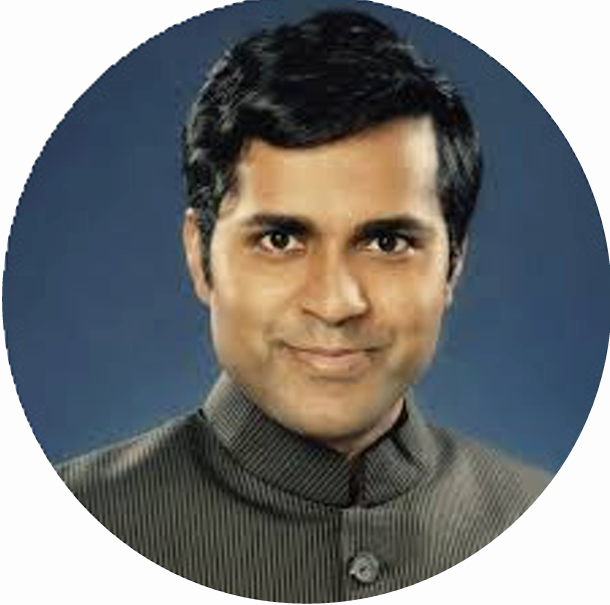
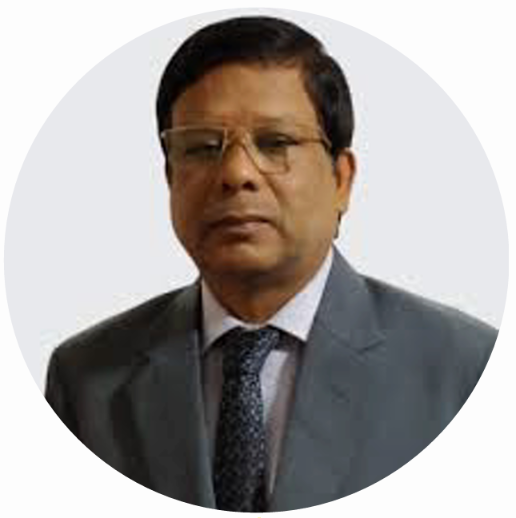
changes

diff --git a/src/components/pages/AdvisoryCommittee.jsx b/src/components/pages/AdvisoryCommittee.jsx
@@ -9,59 +9,64 @@ import FooterSection from "../FooterSection";
 
 export const AdvisoryCommittee = () => {
   const professors = [
+  { name: "Prof. Akshay Kumar Rathore", institute: "Singapore Institute of Technology, Singapore" },
   { name: "Prof. Patrick Wheeler", institute: "University of Nottingham, UK" },
-  { name: "Prof. S. Padmanaban", institute: "University of South-Eastern, Norway" },
-  // { name: "Prof. Frede Blaabjerg", institute: "Aalborg University, Denmark" },
+  { name: "Prof. Steven Li", institute: "Western New England University, USA" },
+  { name: "Prof. Sanjeevikumar Padmanaban", institute: "University of South-Eastern Norway" },
   { name: "Prof. Ramesh Bansal", institute: "University of Sharjah, UAE" },
   { name: "Prof. Mohamed Benbouzid", institute: "University of Brest, France" },
   { name: "Prof. Akhtar Kalam", institute: "Victoria University, Australia" },
   { name: "Prof. Mohan Kolhe", institute: "University of Agder, Norway" },
-  { name: "Prof. Rajesh Kumar", institute: "University of Johannesburg, South Africa" },
-  { name: "Prof. Akshay Kumar Rathod", institute: "Singapore Institute of Technology, Singapore" },
-  { name: "Prof. Sri Niwas Singh", institute: "Director, ABV-IIITM Gwalior" },
-  { name: "Prof. N. P. Padhy", institute: "Director, MNIT Jaipur" },
-  { name: "Prof. Pragati Kumar", institute: "Vice-Chancellor, SMVDU, Jammu" },
+  { name: "Dr. Baseem Khan", institute: "Hawassa University, Ethiopia" },
+  { name: "Dr. Mahdi Khosravy", institute: "Cross Labs, Tokyo, Japan" },
+  { name: "Dr. Neeraj Gupta", institute: "Kevadiya Inc., USA" },
   { name: "Prof. Bhim Singh", institute: "IIT Delhi" },
-  { name: "Prof. A. R. Abhyankar", institute: "IIT Delhi" },
-  { name: "Prof. H. O. Gupta", institute: "MNIT Jaipur" },
-  { name: "Prof. M. H. Kolekar", institute: "IIT Patna" },
+  { name: "Prof. Radhakant Padhi", institute: "IISc Bangalore" },
+  { name: "Prof. Sukumar Mishra", institute: "IIT Delhi" },
+  { name: "Prof. N. P. Padhy", institute: "Director, MNIT Jaipur" },
+  { name: "Prof. H. O. Gupta", institute: "IIT Roorkee" },
   { name: "Prof. Deepak M. Fulwani", institute: "IIT Jodhpur" },
-  { name: "Prof. B. S. Rajpurohit", institute: "IIT Jodhpur" },
+  { name: "Prof. Prerna Gaur", institute: "NSUT Delhi" },
+  { name: "Prof. Bharat Singh Rajpurohit", institute: "IIT Jodhpur" },
+  { name: "Prof. Rohit Bhakar", institute: "MNIT Jaipur" },
+  { name: "Prof. K. S. Nagla", institute: "NIT Jalandhar" },
+  { name: "Prof. Akhil Rajan Garg", institute: "MBM University Jodhpur" },
+  { name: "Prof. Pragati Kumar", institute: "Vice-Chancellor, SMVDU Jammu" },
+  { name: "Prof. Shailendra Jain", institute: "MANIT Bhopal" },
+  { name: "Prof. Ashwani Kumar", institute: "NIT Kurukshetra" },
+  { name: "Prof. Parimal Acharjee", institute: "NIT Durgapur" },
   { name: "Prof. (Mrs.) Shubhi Purwar", institute: "MNNIT Allahabad" },
   { name: "Prof. Asheesh K. Singh", institute: "MNNIT Allahabad" },
-  { name: "Prof. Anup Kumar Panda", institute: "NIT Rourkela" },
-  { name: "Prof. K. S. Nagla", institute: "NIT Jalandhar" },
   { name: "Prof. Manisha Dubey", institute: "MANIT Bhopal" },
-  { name: "Prof. Shailendra Jain", institute: "MANIT Bhopal" },
-  { name: "Prof. K. R. Niazi", institute: "MNIT Jaipur" },
-  { name: "Prof. Rohit Bhakar", institute: "MNIT Jaipur" },
-  { name: "Prof. Parimal Acharjee", institute: "NIT Durgapur" },
-  { name: "Prof. Ashwani Kumar", institute: "NIT Kurukshetra" },
-  { name: "Prof. Prerna Gaur", institute: "NSUT Delhi" },
-  { name: "Prof. Akhil Ranjan Garg", institute: "MBM University Jodhpur" },
+  { name: "Prof. M. H. Kolekar", institute: "IIT Patna" },
   { name: "Prof. Ujjwal Kumar Kalla", institute: "NIT Delhi" },
-
-  ];
-  const professors1=[
-    { name: "Prof. H. M. Suryawanshi", institute: "Director, NITH" },
-  { name: "Prof. Mohan Kolhe", institute: "University of Agder, Norway" },
-  { name: "Prof. Rajesh Kumar", institute: "University of Johannesburg, South Africa" },
-  { name: "Dr. Neeraj Gupta", institute: "Sr. Scientist, Global Elect. Ltd., USA" },
-  { name: "Prof. B. S. Rajpurohit", institute: "IIT Jodhpur" },
-  { name: "Prof. V. Mukherjee", institute: "IIT Dhanbad" },
-  { name: "Prof. Ravi Kumar", institute: "NIT Patna" },
+  { name: "Prof. K. R. Niazi", institute: "MNIT Jaipur" },
+  { name: "Prof. Vijander Singh", institute: "NSUT Delhi" }
+];
+const professors1 = [
+  { name: "Prof. Radhakant Padhi", institute: "IISc Bangalore" },
+  { name: "Prof. Bhim Singh", institute: "IIT Delhi" },
+  { name: "Prof. H. M. Suryawanshi", institute: "Director, NIT Hamirpur" },
+  { name: "Dr. Ravi Kumar", institute: "NIT Patna" },
+  { name: "Prof. Prerna Gaur", institute: "NSUT Delhi" },
   { name: "Prof. H. O. Gupta", institute: "MNIT Jaipur" },
-  { name: "Prof. Rohit Bhakar", institute: "MNIT Jaipur" },
-  { name: "Prof. K. R. Niazi", institute: "MNIT Jaipur" },
-  { name: "Prof. Prerna Gaur", institute: "NSUT Delhi" },
-  { name: "Prof. Ujjwal Kumar Kalla", institute: "NIT Delhi" },
-  { name: "Dr. Pushpak Jagtap", institute: "IISc Bangalore" },
-  { name: "Dr. Ranjana Sodhi", institute: "IIT Ropar" },
+  { name: "Prof. U. K. Kalla", institute: "NIT Delhi" },
+  { name: "Prof. B. S. Rajpurohit", institute: "IIT Jodhpur" },
   { name: "Dr. N. R. Patne", institute: "VNIT Nagpur" },
-  { name: "Dr. Balakrishna P.", institute: "Senior Engineer, GE, Hyderabad" },
+  { name: "Prof. Rohit Bhakar", institute: "MNIT Jaipur" },
+  { name: "Dr. Baseem Khan", institute: "Zhejiang University, China" },
+  { name: "Dr. Balakrishna P.", institute: "GE, Hyderabad" },
+  { name: "Dr. Neeraj Gupta", institute: "Kevadiya Inc., USA" },
   { name: "Dr. Prerna Jain", institute: "MNIT Jaipur" },
+  { name: "Prof. Khaleequr Rehman Niazi", institute: "MNIT Jaipur" },
+  { name: "Prof. Mohan Kolhe", institute: "University of Agder, Norway" },
   { name: "Dr. Sunanda Sinha", institute: "MNIT Jaipur" },
-  ]
+  { name: "Dr. O. P. Mahela", institute: "RVPNL Jaipur" },
+  { name: "Dr. A. K. Yadav", institute: "NIT Jalandhar" },
+  { name: "Dr. P. K. Jain", institute: "NIT Jalandhar" },
+  { name: "Dr. Prakash Choudhary", institute: "Central University of Rajasthan" },
+  { name: "Dr. Ajay Choudhary", institute: "Engineering College Bikaner" }
+];
   return (
     <div className="mainDiv">
       <p className="AdvisoryCommittee" style={{backgroundImage: `url(${backgroundImage})`, backgroundSize: 'cover', backgroundPosition: 'center', width: '100%'}}><h1>Committees</h1></p>

diff --git a/src/components/pages/KeynoteSpeakers.jsx b/src/components/pages/KeynoteSpeakers.jsx
@@ -8,7 +8,6 @@ import a from "../../assets/KS01.png";
 import b from "../../assets/KS02.png";
 import c from "../../assets/KS03.png";
 import d from "../../assets/KS04.png";
-import e from "../../assets/KS05.png";
 
 
 
@@ -20,7 +19,7 @@ const cards = [
     description: 'Director IIT Dhanbad',
   },
   {
-    id: 1,
+    id: 2,
     image: b,
     name: 'Prof. N. P. Padhy,',
     description: 'Director MNIT Jaipur',
@@ -28,20 +27,14 @@ const cards = [
   {
     id: 3,
     image: c,
-    name: 'Prof. Akshay Kumar Rathore, ',
-    description: 'NUS Singapore, Singapore',
+    name: 'Prof.  Bidyadhar Subudhi ',
+    description: 'Director, NIT Warrangal',
   },
   {
     id: 4,
     image: d,
     name: 'Prof. Patrick Wheeler',
     description: 'University of Nottingham, UK',
-  },
-  {
-    id: 5,
-    image: e,
-    name: 'Prof. Steven Li,  ',
-    description: 'Western New England University,  USA',
   },
   
 ];
